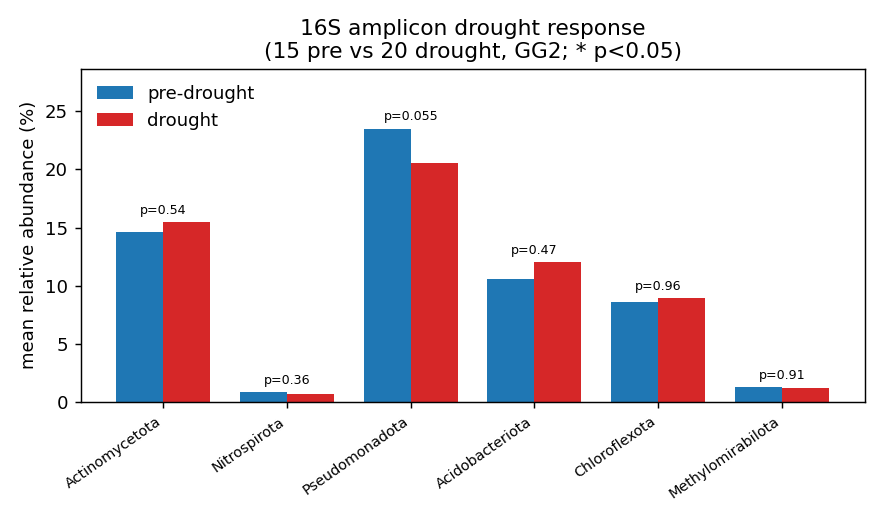
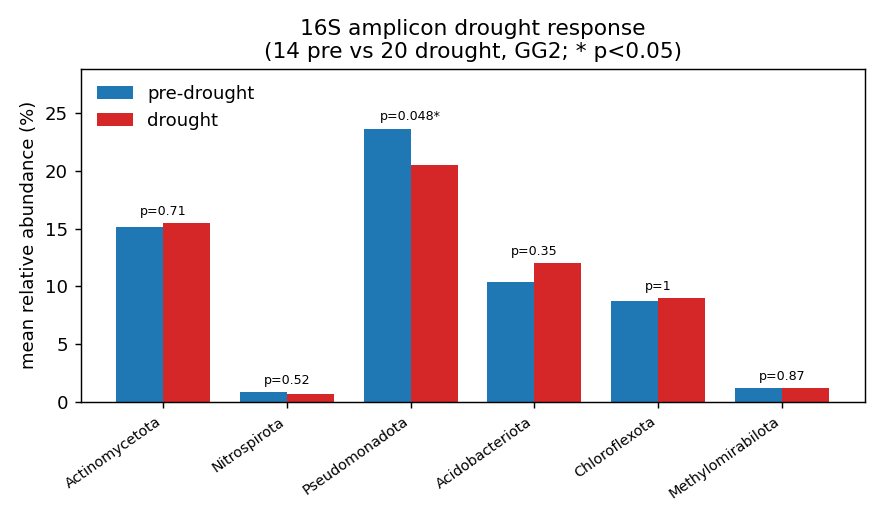
Sanity check on condition labels: WGS 39/39 date-verified correct (Sept=pre, Nov=drought). 16S 34/35 correct; sample H307 labelled pre but collected Nov 1 (drought period) -> excluded as mislabel. Re-ran 16S (pre 15->14), conclusions unchanged (Actinomycetota/Nitrospirota still concordant). Report u

diff --git a/scripts/amplicon_drought.py b/scripts/amplicon_drought.py
@@ -32,10 +32,13 @@ tab = tab * 100.0                              # to percent
 # ---- metadata ----
 md = pd.read_csv(META, sep="\t")
 md = md.rename(columns={"#SampleID": "sid"}).set_index("sid")
+# H307 (HR1RHC2-191101b) is labelled 'pre' but its embedded collection date is Nov 1 — i.e.
+# during the drought (Oct 8–Dec 2). Excluded as a mislabel/ambiguous boundary sample (sanity check).
+EXCLUDE = {"H307"}
 dro_ids = md.index[md["Drought"] == "drought"].tolist()
 pre_ids = md.index[md["Drought"] == "pre"].tolist()
-dro_ids = [s for s in dro_ids if s in tab.columns]
-pre_ids = [s for s in pre_ids if s in tab.columns]
+dro_ids = [s for s in dro_ids if s in tab.columns and s not in EXCLUDE]
+pre_ids = [s for s in pre_ids if s in tab.columns and s not in EXCLUDE]
 print(f"amplicon drought-labelled: {len(dro_ids)} drought, {len(pre_ids)} pre")
 
 # ---- test each phylum drought vs pre ----

diff --git a/scripts/build_report.py b/scripts/build_report.py
@@ -506,7 +506,7 @@ reproducible across two independent assays.</p></div>
 <div class="fig">{img('07_amplicon_vs_wgs.png')}</div>
 
 <p><b>Cross-method drought response.</b> Restricting the amplicon data to its own
-drought-labelled subset ({"%d pre vs %d drought" % (15, 20)}) and testing the two headline
+drought-labelled subset ({"%d pre vs %d drought" % (14, 20)}) and testing the two headline
 phyla, both move in the <b>same direction as the shotgun data</b>:</p>
 <table><tr><th>Phylum</th><th>shotgun (WGS)</th><th>16S amplicon</th><th>agreement</th></tr>
 <tr><td>Actinomycetota</td>
@@ -522,7 +522,7 @@ concordant — though not significant — in the smaller, non-paired amplicon su
 drought-tolerant Actinomycetota increase and the Nitrospirota (nitrifier) decline are thus
 the most robust signals, reproducing across two assays and two sample sets.</p>
 <div class="fig">{img('06_amplicon_drought.png')}</div>
-<div class="caveat"><b>Honest caveats:</b> the amplicon drought subset is small (n=15/20) and
+<div class="caveat"><b>Honest caveats:</b> the amplicon drought subset is small (n=14/20) and
 is <i>not</i> the same physical samples as the shotgun set, so cross-method agreement is at
 the level of biological signal, not paired replicates. The amplicon also flags its own
 shifts (Planctomycetota ▲ p=0.02, Bacteroidota ▼ p=0.03) not seen in the WGS — phylum-level